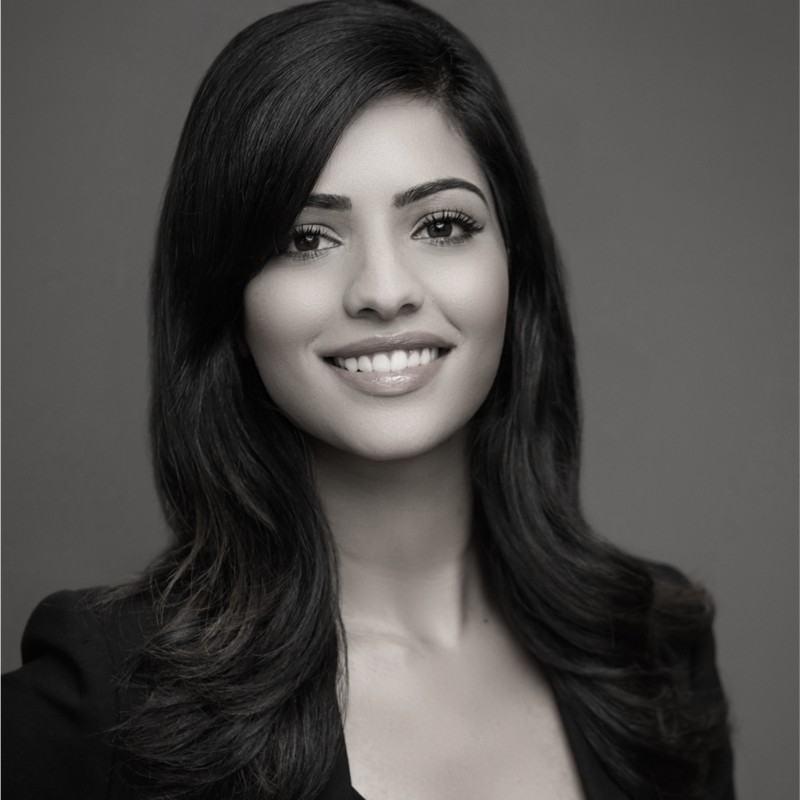
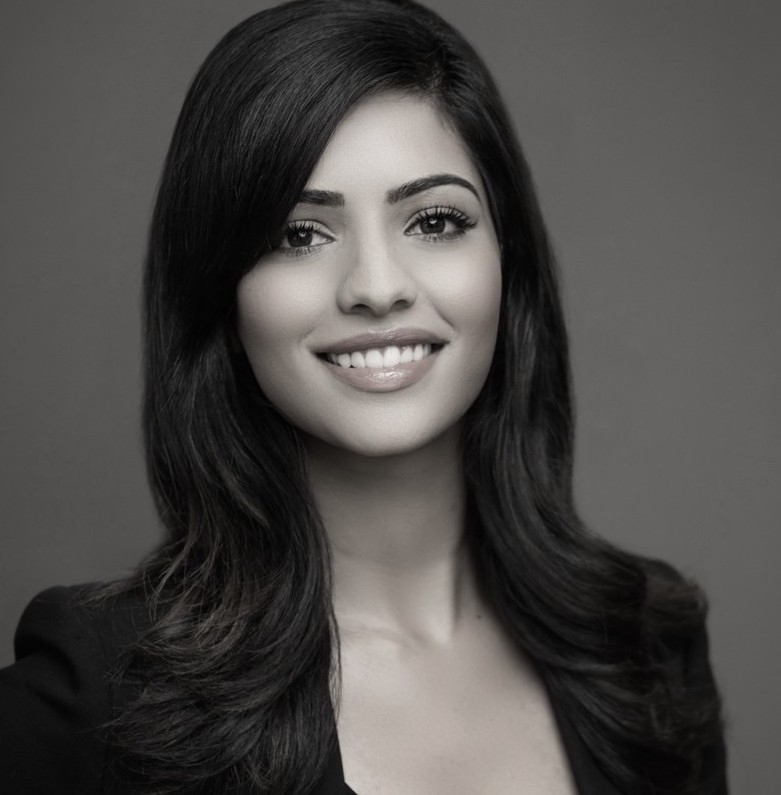
updates to projects

diff --git a/app/components/ProjectSection.jsx b/app/components/ProjectSection.jsx
@@ -7,58 +7,58 @@ import ProjectTag from "./ProjectTag";
 const projectsData = [
     {
       id: 1,
-      title: "React Portfolio Website",
+      title: "Finance Trivia",
       description: "Project 1 description",
       image: "/images/about-image.png",
       tag: ["All", "Web"],
-      gitUrl: "/",
-      previewUrl: "/",
+      gitUrl: "https://github.com/mksahota10/Project-1---Trivia",
+      previewUrl: "https://mksahota10.github.io/Project-1---Trivia/",
     },
     {
       id: 2,
-      title: "Potography Portfolio Website",
-      description: "Project 2 description",
+      title: "Drink Up",
+      description: "Curate your own drink",
       image: "/images/about-image.png",
       tag: ["All", "Web"],
-      gitUrl: "/",
-      previewUrl: "/",
+      gitUrl: "https://github.com/mksahota10/project2-DrinkUp",
+      previewUrl: "https://drinkitup.herokuapp.com/",
     },
     {
       id: 3,
-      title: "E-commerce Application",
-      description: "Project 3 description",
+      title: "Fomo Nomo",
+      description: "Find Events happeing in your area using Ticketmaster API",
       image: "/images/about-image.png",
       tag: ["All", "Web"],
-      gitUrl: "/",
-      previewUrl: "/",
+      gitUrl: "https://github.com/orgs/SFX818/teams/brogrammers/repositories",
+      previewUrl: "https://fomo-nomo-frontend.surge.sh",
     },
     {
       id: 4,
-      title: "Food Ordering Application",
-      description: "Project 4 description",
-      image: "/images/about-image.png",
-      tag: ["All", "Mobile"],
-      gitUrl: "/",
-      previewUrl: "/",
-    },
-    {
-      id: 5,
-      title: "React Firebase Template",
-      description: "Authentication and CRUD operations",
+      title: "E-Commerce",
+      description: "Candel Shop using Stripe Payments",
       image: "/images/about-image.png",
       tag: ["All", "Web"],
-      gitUrl: "/",
+      gitUrl: "https://github.com/mksahota10/Store/tree/main/ecommerce",
       previewUrl: "/",
     },
-    {
-      id: 6,
-      title: "Full-stack Roadmap",
-      description: "Project 5 description",
-      image: "/images/about-image.png",
-      tag: ["All", "Web"],
-      gitUrl: "/",
-      previewUrl: "/",
-    },
+    // {
+    //   id: 5,
+    //   title: "React Firebase Template",
+    //   description: "Authentication and CRUD operations",
+    //   image: "/images/about-image.png",
+    //   tag: ["All", "Web"],
+    //   gitUrl: "/",
+    //   previewUrl: "/",
+    // },
+    // {
+    //   id: 6,
+    //   title: "Full-stack Roadmap",
+    //   description: "Project 5 description",
+    //   image: "/images/about-image.png",
+    //   tag: ["All", "Web"],
+    //   gitUrl: "/",
+    //   previewUrl: "/",
+    // },
   ];
 
 const ProjectSection = () => {

diff --git a/app/components/HeroSection.jsx b/app/components/HeroSection.jsx
@@ -16,7 +16,7 @@ const HeroSection = () => {
           className="col-span-8 place-self-center text-center sm:text-left justify-self-start"
         >
           <h1 className="text-white mb-4 text-4xl sm:text-5xl lg:text-8xl lg:leading-normal font-extrabold">
-            <span className="text-transparent bg-clip-text bg-gradient-to-r from-purple-400 to-pink-600">
+            <span className="text-transparent bg-clip-text bg-gradient-to-r from-primary-400 to-pink-600">
               Hello, I&apos;m{" "}
             </span>
             <br></br>
@@ -24,11 +24,11 @@ const HeroSection = () => {
               sequence={[
                 "Preet",
                 1000,
-                "Web Developer",
+                "A Developer",
                 1000,
-                "Developer Advocate",
+                "An Avid Learner",
                 1000,
-                "Avid Learner",
+                "Always Curious",
                 1000,
               ]}
               wrapper="span"
@@ -37,21 +37,20 @@ const HeroSection = () => {
             />
           </h1>
           <p className="text-[#ADB7BE] text-base sm:text-lg mb-6 lg:text-xl">
-            Lorem ipsum dolor sit amet consectetur adipisicing elit. Quisquam,
-            voluptuous.
+           Let's Connect!
           </p>
           <div>
             <Link
               href="/#contact"
               className="px-6 py-3 w-full sm:w-fit rounded-full mr-4 bg-gradient-to-br from-blue-500 via-purple-500 to-pink-500 hover:bg-slate-200 text-white"
             >
-              Hire Me
+              Find Me Here
             </Link>
             <Link
-              href="/#contact"
+              href="https://docs.google.com/document/d/e/2PACX-1vRdG8QIjqRMMqoJY11MM7fX3y5MmOUBb1rXFKXqKzgreU3RLW0-1EGdMZQN5AMMHw/pub"
               className="px-6 py-3 w-full sm:w-fit rounded-full mr-4 bg-gradient-to-br from-blue-500 via-purple-500 to-pink-500 hover:bg-slate-200 text-white"
             >
-              DownLoad CV
+              Download My CV
             </Link>
           </div>
         </motion.div>
@@ -61,9 +60,9 @@ const HeroSection = () => {
           transition={{ duration: 0.5 }}
           className="col-span-4 place-self-center mt-4 lg:mt-0"
         >
-          <div className="rounded-full bg-[#181818] w-[250px] h-[250px] lg:w-[400px] lg:h-[400px] relative">
+          <div className=" bg-[#181818] w-[250px] h-[250px] lg:w-[400px] lg:h-[400px] relative">
             <Image
-              src="/images/hero-image.png"
+              src="/images/Pic.jpeg"
               alt="hero image"
               className="absolute transform -translate-x-1/2 -translate-y-1/2 top-1/2 left-1/2"
               width={300}

diff --git a/app/components/AboutSection.jsx b/app/components/AboutSection.jsx
@@ -9,12 +9,13 @@ const TAB_DATA = [
     id: "skills",
     content: (
       <ul className="list-disc pl-2">
+         <li>JavaScript</li>
         <li>Node.js</li>
         <li>Express</li>
-        <li>PostgreSQL</li>
-        <li>Sequelize</li>
-        <li>JavaScript</li>
         <li>React</li>
+        <li>PostgreSQL</li>
+        <li>Python</li>
+        <li>SQL</li>
       </ul>
     ),
   },
@@ -23,7 +24,6 @@ const TAB_DATA = [
     id: "education",
     content: (
       <ul className="list-disc pl-2">
-        <li>Fullstack Software Engineer, General Assembly</li>
         <li> Economics and Communication Studies, San Jose State University</li>
       </ul>
     ),
@@ -33,8 +33,9 @@ const TAB_DATA = [
     id: "certifications",
     content: (
       <ul className="list-disc pl-2">
+        <li>Fullstack Software Engineer, General Assembly</li>
         <li>AWS Cloud Practitioner</li>
-        <li>Google Professional Cloud Developer</li>
+        <li>FINRA Series 7 and 63</li>
       </ul>
     ),
   },
@@ -57,12 +58,7 @@ const AboutSection = () => {
         <div className="mt-4 md:mt-0 text-left flex flex-col h-full">
           <h2 className="text-4xl font-bold text-white mb-4">About Me</h2>
           <p className="text-base lg:text-lg">
-            I am a full stack web developer with a passion for creating
-            interactive and responsive web applications. I have experience
-            working with JavaScript, React, Redux, Node.js, Express, PostgreSQL,
-            Sequelize, HTML, CSS, and Git. I am a quick learner and I am always
-            looking to expand my knowledge and skill set. I am a team player and
-            I am excited to work with others to create amazing applications.
+          Results-oriented and forward-thinking professional with a proven track record in optimizing product functionality, driving user engagement, and delivering tangible outcomes. Adept at problem-solving with a proactive approach, I excel in strategic collaboration and leverage cutting-edge technologies to propel product success.
           </p>
           <div className="flex flex-row justify-start mt-8">
             <TabButton

diff --git a/tailwind.config.js b/tailwind.config.js
@@ -1,4 +1,6 @@
 /** @type {import('tailwindcss').Config} */
+const colors = require("tailwindcss/colors");
+
 module.exports = {
   content: [
     './pages/**/*.{js,ts,jsx,tsx,mdx}',
@@ -12,6 +14,11 @@ module.exports = {
         'gradient-conic':
           'conic-gradient(from 180deg at 50% 50%, var(--tw-gradient-stops))',
       },
+    },
+    colors: {
+      ...colors,
+      primary: colors.purple,
+      secondary: colors.pink,
     },
   },
   plugins: [],

diff --git a/app/components/NavBar.jsx b/app/components/NavBar.jsx
@@ -30,7 +30,7 @@ const Navbar = () => {
           href={"/"}
           className="text-2xl md:text-5xl text-white font-semibold"
         >
-          LOGO
+          
         </Link>
         <div className="mobile-menu block md:hidden">
           {!navbarOpen ? (
